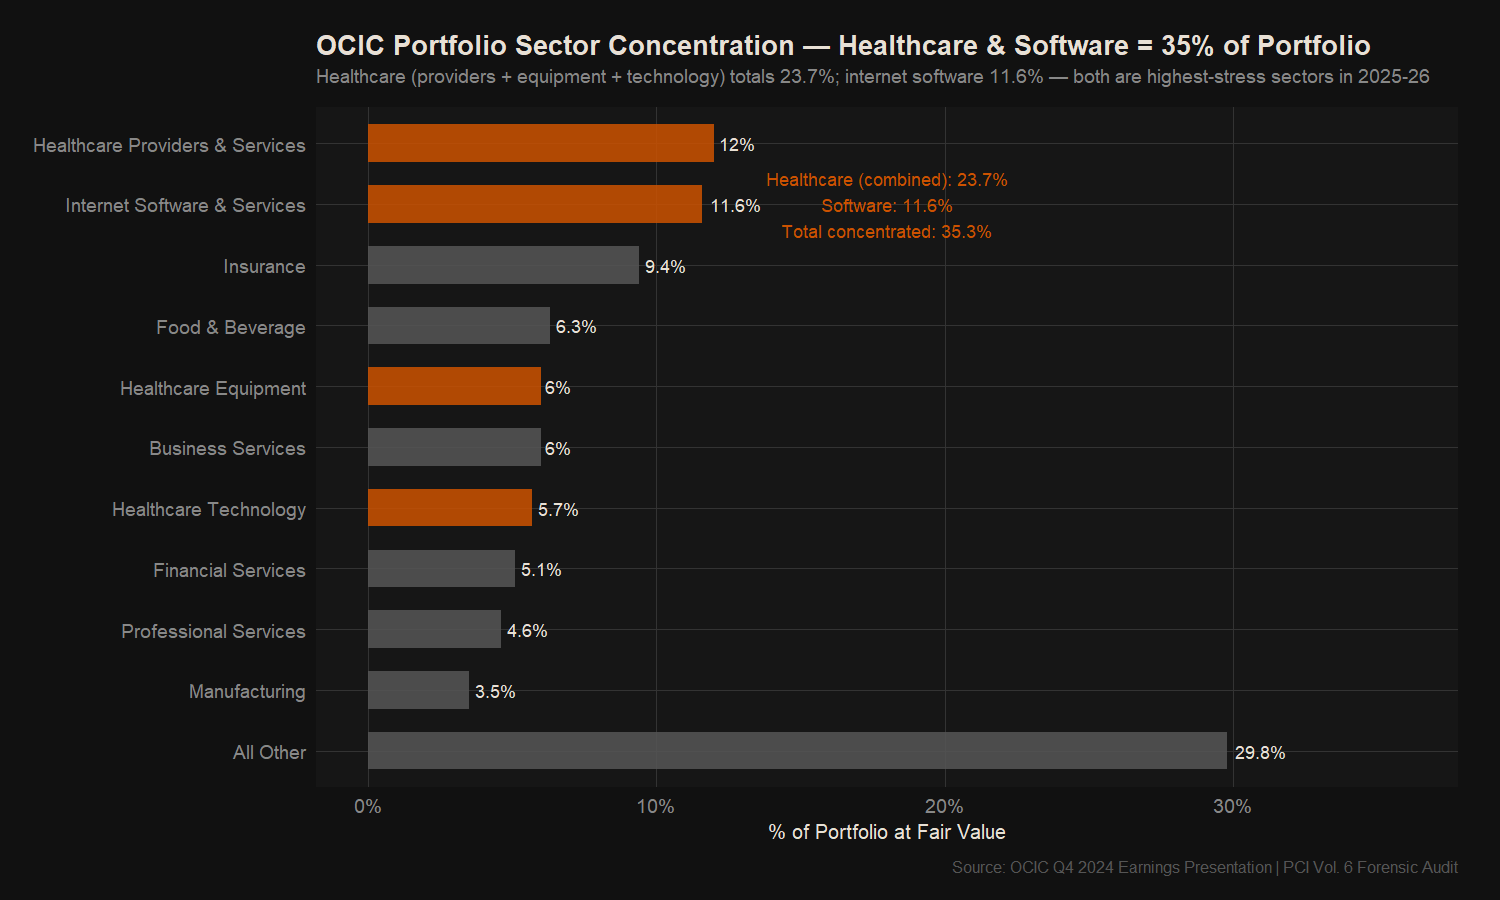
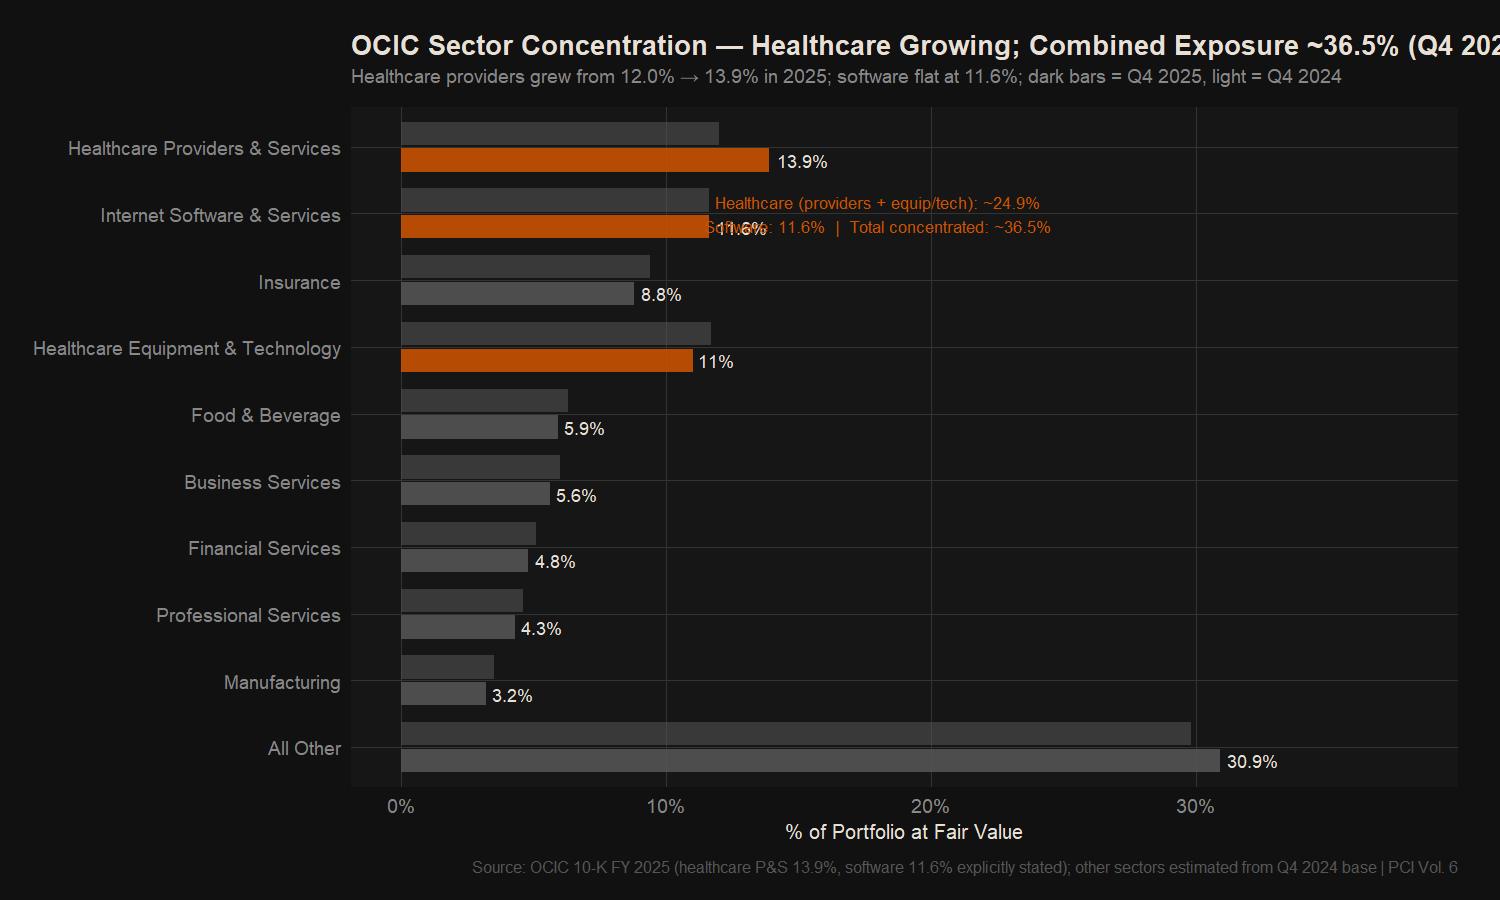
Vol. 6 OCIC audit updated through Q4 2025 (10-Q + 10-K)
Incorporated SEC EDGAR 10-Q (Sep 30, 2025) and 10-K (Dec 31, 2025) data.
Key new findings: Rating 3 loans +324% total ($425M→$1.80B); Rating 4
emerged at $103M; FY 2025 distribution coverage fell below 1.0x (0.91x);
portfolio yield compressed to 8.9% (-250bps from peak); NAV eroded to $9.32.
Forensic flag count raised from 12 to 14; all 9 charts regenerated.

diff --git a/vol6.html b/vol6.html
@@ -37,9 +37,9 @@
 
   <div class="vol-hero">
     <div class="container vol-hero-inner">
-      <span class="vol-badge vol-badge-alert">Vol. 6 — Forensic Audit — March 2026</span>
+      <span class="vol-badge vol-badge-alert">Vol. 6 — Forensic Audit — Updated Q4 2025</span>
       <h1>Blue Owl Credit Income Corp (OCIC)</h1>
-      <p>A forensic audit of the $26.4B non-traded BDC managed by Blue Owl Credit Advisers. Twelve red flags identified from public SEC filings: Rating 3 (stressed) loans surged 172% in nine months to $1.15B; four consecutive quarters of unrealized losses in 2024; distribution coverage at exactly 1.00x with zero buffer; and a valuation gap of approximately $2.35 per share between OCIC's stated NAV ($9.57) and the market-implied liquidation value (~$7.22) derived from OBDC — the publicly traded vehicle run by the same manager investing in the same loans.</p>
+      <p>A forensic audit of the $35.9B non-traded BDC managed by Blue Owl Credit Advisers — updated through Q4 2025 using SEC EDGAR 10-Q (Sep 30, 2025) and 10-K (Dec 31, 2025). Fourteen red flags identified. Rating 3 (stressed) loans grew +324% from Q1 2024 to Q4 2025 ($425M → $1.80B); Rating 4 (Materially Below) emerged from $0 to $103M in 2025; distribution coverage fell below 1.0x for the first time (FY 2025 NII $0.80/share vs. distributions $0.877/share = 0.91×); and the valuation gap between stated NAV ($9.32) and OBDC market-implied value (~$7.13) persists at ~$2.19/share (23.5%).</p>
     </div>
   </div>
 
@@ -47,7 +47,7 @@
   <div class="forensic-alert-bar">
     <div class="container">
       <span class="forensic-alert-icon">&#9888;</span>
-      <strong>Independent Research Disclosure:</strong> This analysis is based entirely on publicly available SEC filings and company disclosures. It does not constitute investment advice or a recommendation to buy, sell, or hold any security. All figures sourced from OCIC Q4 2024 Earnings Presentation, SEC EDGAR CIK 0001812554, and OBDC NYSE market pricing as of March 24, 2026.
+      <strong>Independent Research Disclosure:</strong> This analysis is based entirely on publicly available SEC filings and company disclosures. It does not constitute investment advice or a recommendation to buy, sell, or hold any security. Figures sourced from OCIC Q4 2024 Earnings Presentation, SEC EDGAR 10-Q (Sep 30, 2025) and 10-K (Dec 31, 2025) — CIK 0001812554 — and OBDC NYSE market pricing as of March 24, 2026.
     </div>
   </div>
 
@@ -70,25 +70,25 @@
   <section class="section" id="dashboard" style="padding-bottom:0.5rem">
     <div class="container">
       <p class="section-eyebrow" style="margin-bottom:0.5rem">Vol. 6 — Forensic Audit Dashboard</p>
-      <h2 class="dash-heading">OCIC — Key Metrics &amp; Forensic Findings (March 2026)</h2>
+      <h2 class="dash-heading">OCIC — Key Metrics &amp; Forensic Findings (Updated Q4 2025)</h2>
 
       <!-- KPI CARDS -->
       <div class="dash-kpi-row" style="grid-template-columns:repeat(4,1fr)">
         <div class="dash-kpi">
-          <span class="dash-kpi-value">$26.4B</span>
-          <span class="dash-kpi-label">Total Portfolio at Fair Value (Q4 2024)</span>
+          <span class="dash-kpi-value">$35.9B</span>
+          <span class="dash-kpi-label">Total Portfolio at Fair Value (Q4 2025)</span>
         </div>
         <div class="dash-kpi dash-kpi-alert">
-          <span class="dash-kpi-value">$9.57</span>
-          <span class="dash-kpi-label">Stated NAV/Share — vs. ~$7.22 market-implied</span>
+          <span class="dash-kpi-value">$9.32</span>
+          <span class="dash-kpi-label">Stated NAV/Share (Q4 2025) — vs. ~$7.13 market-implied</span>
         </div>
         <div class="dash-kpi dash-kpi-alert">
-          <span class="dash-kpi-value">+172%</span>
-          <span class="dash-kpi-label">Rating 3 (Stressed) Loans in 9 Months</span>
+          <span class="dash-kpi-value">+324%</span>
+          <span class="dash-kpi-label">Rating 3 Loans from Q1 2024 to Q4 2025 ($425M → $1.80B)</span>
         </div>
         <div class="dash-kpi dash-kpi-alert">
-          <span class="dash-kpi-value">1.00×</span>
-          <span class="dash-kpi-label">Distribution Coverage — Q4 2024 (Zero Buffer)</span>
+          <span class="dash-kpi-value">0.91×</span>
+          <span class="dash-kpi-label">FY 2025 Distribution Coverage — Below 1.0× for First Time</span>
         </div>
       </div>
 
@@ -102,51 +102,51 @@
 
         <div class="dash-tab-panel active" id="tab-v6-fund">
           <table class="v5-dash-table">
-            <thead><tr><th>Metric</th><th>Value</th><th>Context</th></tr></thead>
+            <thead><tr><th>Metric</th><th>Q4 2024</th><th>Q4 2025</th></tr></thead>
             <tbody>
-              <tr><td>Total Investments at Fair Value</td><td>$26.4B</td><td>339 portfolio companies across 31 industries; avg. $77.8M per company</td></tr>
-              <tr><td>Total Net Assets (Equity)</td><td>$14.5B</td><td>Grown from $8.9B at Q4 2023 — 63% increase in one year via equity issuance</td></tr>
-              <tr><td>Total Debt Outstanding</td><td>$12.7B</td><td>SPVs + CLOs + unsecured notes; avg. maturity ~5.7 years</td></tr>
-              <tr><td>Debt-to-Equity Ratio</td><td>0.82×</td><td>Within 1940 Act limit of 1.0×; headroom narrowing</td></tr>
-              <tr><td>Available Liquidity</td><td>$3.2B</td><td>Cash + undrawn revolver; covers estimated $3–5B unfunded commitments</td></tr>
-              <tr><td>WA Interest Coverage (Portfolio)</td><td>1.9×</td><td>Thin average; stressed tail (Rating 3, 4.4% of portfolio) likely sub-1.0×</td></tr>
-              <tr><td>Portfolio Yield (Q4 2024)</td><td>9.9%</td><td>Down from 11.4% in Q4 2023 — 150 bps compression in 12 months</td></tr>
-              <tr><td>% Senior Secured (1st Lien)</td><td>90%</td><td>High — but identical claim made by CCLFX, HLEND; standard disclosure language</td></tr>
+              <tr><td>Total Investments at Fair Value</td><td>$26.4B</td><td>$35.9B (+36%)</td></tr>
+              <tr><td>Total Net Assets (Equity)</td><td>$14.5B</td><td>$19.8B</td></tr>
+              <tr><td>Total Debt Outstanding</td><td>$12.7B</td><td>~$15.0B</td></tr>
+              <tr><td>Net Debt-to-Equity Ratio</td><td>0.87×</td><td>0.76× (stated)</td></tr>
+              <tr><td>WA Portfolio Yield (FV)</td><td>9.9%</td><td>8.9% (−100bps more)</td></tr>
+              <tr><td>New Commitment Yield</td><td>9.1%</td><td>8.4% (FY 2025 avg)</td></tr>
+              <tr><td>Annual NII per Share (Class I)</td><td>$1.02</td><td>$0.80 (−21.6%)</td></tr>
+              <tr><td>Portfolio Companies</td><td>339</td><td>370</td></tr>
             </tbody>
           </table>
         </div>
 
         <div class="dash-tab-panel" id="tab-v6-stress">
           <table class="v5-dash-table">
-            <thead><tr><th>Stress Signal</th><th>Magnitude</th><th>Significance</th></tr></thead>
+            <thead><tr><th>Stress Signal</th><th>Q4 2024</th><th>Q4 2025</th></tr></thead>
             <tbody>
-              <tr class="v5-alert"><td>Rating 3 Loans (Below Expectations)</td><td>$1.15B — 4.4% of FV</td><td>Up from $425M (2.2%) in Q1 2024 — 172% increase in 9 months</td></tr>
-              <tr class="v5-alert"><td>Rating 5 Loans (Anticipated Loss)</td><td>$31.5M</td><td>Jumped from ~$3M in Q3 2024; near-total-loss bucket</td></tr>
-              <tr class="v5-alert"><td>Non-Accrual Loans (Cost vs. FV)</td><td>0.2% cost / 0.1% FV</td><td>Implied ~50% haircut on non-accrual names; borrowers not disclosed publicly</td></tr>
-              <tr class="v5-alert"><td>Consecutive Unrealized Losses</td><td>4 straight quarters</td><td>Q1–Q4 2024 all produced negative net investment gains; Q4 = -$35.1M combined</td></tr>
-              <tr><td>Interest Expense Growth</td><td>+69% YoY</td><td>$141M/qtr (Q4 2023) → $239M/qtr (Q4 2024); cost of capital rising</td></tr>
-              <tr><td>NII per Share Trend</td><td>$0.29 → $0.26</td><td>Falling every quarter of 2024; dividend unchanged at $0.24 — buffer shrinking</td></tr>
-              <tr><td>Healthcare + Software Concentration</td><td>35.3% of portfolio</td><td>Both sectors are highest-stress in 2025-26 credit cycle</td></tr>
+              <tr class="v5-alert"><td>Rating 3 Loans (Below Expectations)</td><td>$1.15B — 4.4% of FV</td><td>$1.80B — 5.0% of FV (+57% YoY)</td></tr>
+              <tr class="v5-alert"><td>Rating 4 Loans (Materially Below)</td><td>$0 — did not exist</td><td>$103M — NEW category emerged in 2025</td></tr>
+              <tr class="v5-alert"><td>Rating 5 Loans (Anticipated Loss)</td><td>$31.5M</td><td>$24M (slight improvement)</td></tr>
+              <tr class="v5-alert"><td>Distribution Coverage Ratio</td><td>1.00× (zero buffer)</td><td>0.91× — below 1.0× for first time</td></tr>
+              <tr class="v5-alert"><td>Annual NII vs. Distributions</td><td>$1.02 vs. $0.972</td><td>$0.80 vs. $0.877 — distributions exceed income</td></tr>
+              <tr><td>Interest Expense (Annual)</td><td>$956M est.</td><td>$973M (+22% vs. FY 2024)</td></tr>
+              <tr><td>Healthcare + Software Concentration</td><td>35.3%</td><td>~36.5% (healthcare providers grew to 13.9%)</td></tr>
             </tbody>
           </table>
         </div>
 
         <div class="dash-tab-panel" id="tab-v6-valuation">
           <table class="v5-dash-table">
-            <thead><tr><th>Valuation Metric</th><th>OCIC (Stated)</th><th>Market-Implied (OBDC Proxy)</th></tr></thead>
+            <thead><tr><th>Valuation Metric</th><th>Q4 2024</th><th>Q4 2025</th></tr></thead>
             <tbody>
-              <tr class="v5-alert"><td>NAV per Share (Class I)</td><td>$9.57</td><td>~$7.22 (OBDC 24.5% discount applied)</td></tr>
-              <tr class="v5-alert"><td>Implied Overstatement per Share</td><td>—</td><td>~$2.35/share (~24.5%)</td></tr>
-              <tr class="v5-alert"><td>Aggregate Implied Overstatement</td><td>—</td><td>~$3.7B (across 1.56B shares outstanding)</td></tr>
-              <tr><td>OBDC Current Price / NAV</td><td>—</td><td>$11.18 / $14.81 = 0.755× (March 24, 2026)</td></tr>
-              <tr><td>Portfolio Overlap (OCIC / OBDC)</td><td>—</td><td>8 of OCIC's top 10 borrowers confirmed in OBDC portfolio</td></tr>
-              <tr><td>Level 3 Assets (Est.)</td><td>~100%</td><td>No observable market price; all marks are internal management estimates</td></tr>
-              <tr><td>Up to 100% of Distributions</td><td>Adviser-reimbursed</td><td>Per prospectus — subject to repayment obligation; not guaranteed income</td></tr>
+              <tr class="v5-alert"><td>OCIC Stated NAV/Share (Class I)</td><td>$9.57</td><td>$9.32 (−$0.25 in 2025)</td></tr>
+              <tr class="v5-alert"><td>OBDC Market-Implied Value</td><td>~$7.22 (24.5% discount)</td><td>~$7.13 (23.5% discount)</td></tr>
+              <tr class="v5-alert"><td>Implied Overstatement per Share</td><td>~$2.35 (24.5%)</td><td>~$2.19 (23.5%)</td></tr>
+              <tr><td>OBDC Price / NAV (March 2026)</td><td>—</td><td>$11.18 / $14.62 = 0.765×</td></tr>
+              <tr><td>Portfolio Overlap (OCIC / OBDC)</td><td>—</td><td>8 of OCIC top 10 borrowers in OBDC portfolio</td></tr>
+              <tr><td>Level 3 Assets (Est.)</td><td>~100%</td><td>~100% — all marks are internal estimates</td></tr>
+              <tr><td>Up to 100% of Distributions</td><td>Adviser-reimbursed</td><td>Per prospectus — not guaranteed income</td></tr>
             </tbody>
           </table>
         </div>
       </div>
-      <p class="dash-source">Sources: OCIC Q4 2024 Earnings Presentation · SEC EDGAR CIK 0001812554 · OBDC NYSE pricing (March 24, 2026) · Blue Owl investor disclosures · PCI independent analysis</p>
+      <p class="dash-source">Sources: OCIC Q4 2024 Earnings Presentation · SEC EDGAR 10-Q (Sep 30, 2025) &amp; 10-K (Dec 31, 2025) · CIK 0001812554 · OBDC NYSE pricing (March 24, 2026) · PCI independent analysis</p>
     </div>
   </section>
 
@@ -158,52 +158,52 @@
       </div>
       <div class="insight-box" style="margin-bottom:2rem">
         <span class="insight-label">Audit Thesis</span>
-        <p>OCIC's headline NAV has been managed to near-flatness — $9.53 to $9.57 across all of 2024. But the internal portfolio rating data tells a different story. Rating 3 (Below Expectations) loans grew 172% in nine months. Rating 5 (Anticipated Loss) jumped from $3M to $31.5M. Every single quarter of 2024 produced realized and unrealized investment losses. And the publicly traded vehicle run by the same manager — OBDC — trades at a 24.5% discount to its own stated NAV. Applied to OCIC, that discount implies a market-clearing value of approximately $7.22 per share — a $2.35 gap against the stated $9.57 that retail investors are buying at quarterly.</p>
+        <p>OCIC's headline NAV has been managed to near-flatness — $9.53 to $9.57 across all of 2024, then $9.32 by Q4 2025. But the internal portfolio rating data tells a different story. Rating 3 (Below Expectations) loans have grown +324% from Q1 2024 to Q4 2025 ($425M → $1.80B). Rating 4 (Materially Below) — a category that did not exist in Q4 2024 — emerged at $103M by year-end 2025. FY 2025 NII per share fell to $0.80 versus distributions of $0.877 — distribution coverage fell below 1.0× for the first time. And the publicly traded vehicle run by the same manager — OBDC — continues to trade at a ~23.5% discount to its own stated NAV. Applied to OCIC, that implies a market-clearing value of approximately $7.13 per share against the stated $9.32.</p>
       </div>
 
-      <p class="img-group-label">Internal Rating Migration — Stress Accelerating Beneath the Headline NAV</p>
+      <p class="img-group-label">Internal Rating Migration — Updated Through Q4 2025 (+324% Total Stressed Growth)</p>
       <div class="img-grid">
-        <a href="images/PC_V6_OCIC_RatingMigration.png"><img src="images/PC_V6_OCIC_RatingMigration.png" alt="OCIC internal rating migration: Rating 3 loans surged from $425M to $1.15B (+172%) in 9 months; Rating 5 jumped to $31.5M in Q4 2024"></a>
+        <a href="images/PC_V6_OCIC_RatingMigration.png"><img src="images/PC_V6_OCIC_RatingMigration.png" alt="OCIC internal rating migration: Rating 3 grew from $425M (Q1 2024) to $1.80B (Q4 2025) — +324%; Rating 4 emerged at $103M in 2025"></a>
       </div>
 
-      <p class="img-group-label" id="nav-gap">Stated NAV vs. OBDC Market-Implied Liquidation Value</p>
+      <p class="img-group-label" id="nav-gap">Stated NAV vs. OBDC Market-Implied Value — Gap Persists Through Q4 2025</p>
       <div class="img-grid">
-        <a href="images/PC_V6_OCIC_NAVvsMarket.png"><img src="images/PC_V6_OCIC_NAVvsMarket.png" alt="OCIC stated NAV $9.57 vs. OBDC-implied market value ~$7.22 per share — 24.5% valuation gap growing through 2024"></a>
+        <a href="images/PC_V6_OCIC_NAVvsMarket.png"><img src="images/PC_V6_OCIC_NAVvsMarket.png" alt="OCIC stated NAV fell from $9.57 (Q4 2024) to $9.32 (Q4 2025); OBDC-implied value ~$7.13 — 23.5% valuation gap persists"></a>
       </div>
 
-      <p class="img-group-label" id="distribution">Distribution Coverage — Margin Collapsing to Zero</p>
+      <p class="img-group-label" id="distribution">Distribution Coverage — Fell Below 1.0× in FY 2025</p>
       <div class="img-grid">
-        <a href="images/PC_V6_OCIC_DistributionCoverage.png"><img src="images/PC_V6_OCIC_DistributionCoverage.png" alt="OCIC NII per share falling from $0.29 to $0.26; net income exactly matches $0.24 dividend in Q4 2024 — zero coverage buffer"></a>
+        <a href="images/PC_V6_OCIC_DistributionCoverage.png"><img src="images/PC_V6_OCIC_DistributionCoverage.png" alt="OCIC FY 2025 NII $0.80/share vs distributions $0.877/share = 0.91x coverage — below 1.0× for first time; Q4 2025 estimated ~0.90×"></a>
       </div>
 
-      <p class="img-group-label" id="leverage">Debt Growth Outpacing Equity — Interest Expense +69% YoY</p>
+      <p class="img-group-label" id="leverage">Debt Growth — $7.8B to $15.0B in Two Years; Interest Expense +22% in 2025</p>
       <div class="img-grid">
-        <a href="images/PC_V6_OCIC_LeverageGrowth.png"><img src="images/PC_V6_OCIC_LeverageGrowth.png" alt="OCIC total debt grew from $7.8B to $12.7B (+62%) in 2024; interest expense up 69% YoY from $141M to $239M per quarter"></a>
+        <a href="images/PC_V6_OCIC_LeverageGrowth.png"><img src="images/PC_V6_OCIC_LeverageGrowth.png" alt="OCIC total debt grew from $7.8B (Q4 2023) to ~$15.0B (Q4 2025) — +92% in 2 years; interest expense $973M in FY 2025"></a>
       </div>
 
-      <p class="img-group-label" id="yield">Yield Compression — Income Engine Losing 150 bps in 12 Months</p>
+      <p class="img-group-label" id="yield">Yield Compression — 250bps Lost Since Peak; New Deals Still Below Book Yield</p>
       <div class="img-grid">
-        <a href="images/PC_V6_OCIC_YieldCompression.png"><img src="images/PC_V6_OCIC_YieldCompression.png" alt="OCIC WA portfolio yield declined from 11.4% to 9.9%; new commitment rates at 9.1% — below existing book yield"></a>
+        <a href="images/PC_V6_OCIC_YieldCompression.png"><img src="images/PC_V6_OCIC_YieldCompression.png" alt="OCIC WA portfolio yield compressed from 11.4% (Q4 2023) to 8.9% (Q4 2025); new commitments at 8.4% — still below existing book"></a>
       </div>
 
-      <p class="img-group-label" id="losses">Four Consecutive Quarters of Realized &amp; Unrealized Losses</p>
+      <p class="img-group-label" id="losses">Investment Gains/(Losses) — 2025 Reversal via Realized Gains; Q4 Unrealized Negative Again</p>
       <div class="img-grid">
-        <a href="images/PC_V6_OCIC_UnrealizedLosses.png"><img src="images/PC_V6_OCIC_UnrealizedLosses.png" alt="OCIC net realized and unrealized losses every quarter of 2024; Q4 2024 combined loss $35.1M despite flat headline NAV"></a>
+        <a href="images/PC_V6_OCIC_UnrealizedLosses.png"><img src="images/PC_V6_OCIC_UnrealizedLosses.png" alt="OCIC 2024 had four consecutive quarters of net losses; 2025 showed recovery via realized gains (+$211M) but Q4 2025 unrealized turned negative"></a>
       </div>
 
-      <p class="img-group-label" id="sector">Sector Concentration — Healthcare + Software = 35%</p>
+      <p class="img-group-label" id="sector">Sector Concentration — Healthcare Growing to 13.9%; Combined ~36.5%</p>
       <div class="img-grid">
-        <a href="images/PC_V6_OCIC_SectorConcentration.png"><img src="images/PC_V6_OCIC_SectorConcentration.png" alt="OCIC sector concentration: healthcare 23.7% combined, internet software 11.6% — highest-stress sectors in 2025-26 credit cycle"></a>
+        <a href="images/PC_V6_OCIC_SectorConcentration.png"><img src="images/PC_V6_OCIC_SectorConcentration.png" alt="OCIC healthcare providers grew from 12.0% to 13.9% in 2025; software flat at 11.6%; combined concentrated exposure ~36.5%"></a>
       </div>
 
-      <p class="img-group-label" id="flags">Forensic Red Flag Severity Scorecard</p>
+      <p class="img-group-label" id="flags">Forensic Red Flag Scorecard — Updated: 14 Flags, 9 Scoring ≥7/10</p>
       <div class="img-grid">
-        <a href="images/PC_V6_OCIC_ForensicFlags.png"><img src="images/PC_V6_OCIC_ForensicFlags.png" alt="OCIC forensic audit: 12 red flags identified, 7 of 12 scoring 7 or higher out of 10 severity — valuation, stress, income, and leverage categories"></a>
+        <a href="images/PC_V6_OCIC_ForensicFlags.png"><img src="images/PC_V6_OCIC_ForensicFlags.png" alt="OCIC forensic audit updated scorecard: 14 red flags, 9 of 14 scoring 7/10 or higher — 2 new flags added from 2025 filings (Rating 4 emergence, NAV erosion)"></a>
       </div>
 
-      <p class="img-group-label">Forensic Audit Summary Dashboard</p>
+      <p class="img-group-label">Forensic Audit Summary Dashboard — Updated Q4 2025</p>
       <div class="img-grid">
-        <a href="images/PC_V6_OCIC_Dashboard.png"><img src="images/PC_V6_OCIC_Dashboard.png" alt="OCIC Vol. 6 forensic audit dashboard — all key metrics, red-flagged items highlighted"></a>
+        <a href="images/PC_V6_OCIC_Dashboard.png"><img src="images/PC_V6_OCIC_Dashboard.png" alt="OCIC Vol. 6 forensic audit dashboard updated to Q4 2025 — all key metrics updated from SEC EDGAR 10-K and 10-Q filings"></a>
       </div>
     </div>
   </section>
@@ -212,7 +212,7 @@
     <div class="container footer-inner">
       <span class="nav-logo">PCI<span class="accent">.</span></span>
       <p>Private Credit Index — Vol. 1–6 &mdash; Independent Research, March 2026</p>
-      <p class="footer-note">Sources: OCIC Q4 2024 Earnings Presentation | SEC EDGAR CIK 0001812554 | OBDC NYSE pricing | Blue Owl Capital Corp investor disclosures | PCI independent analysis. This research is for informational and educational purposes only and does not constitute investment advice.</p>
+      <p class="footer-note">Sources: OCIC Q4 2024 Earnings Presentation | SEC EDGAR 10-Q (Sep 30, 2025) &amp; 10-K (Dec 31, 2025) — CIK 0001812554 | OBDC NYSE pricing (March 24, 2026) | Blue Owl Capital Corp investor disclosures | PCI independent analysis. This research is for informational and educational purposes only and does not constitute investment advice.</p>
     </div>
   </footer>
 
